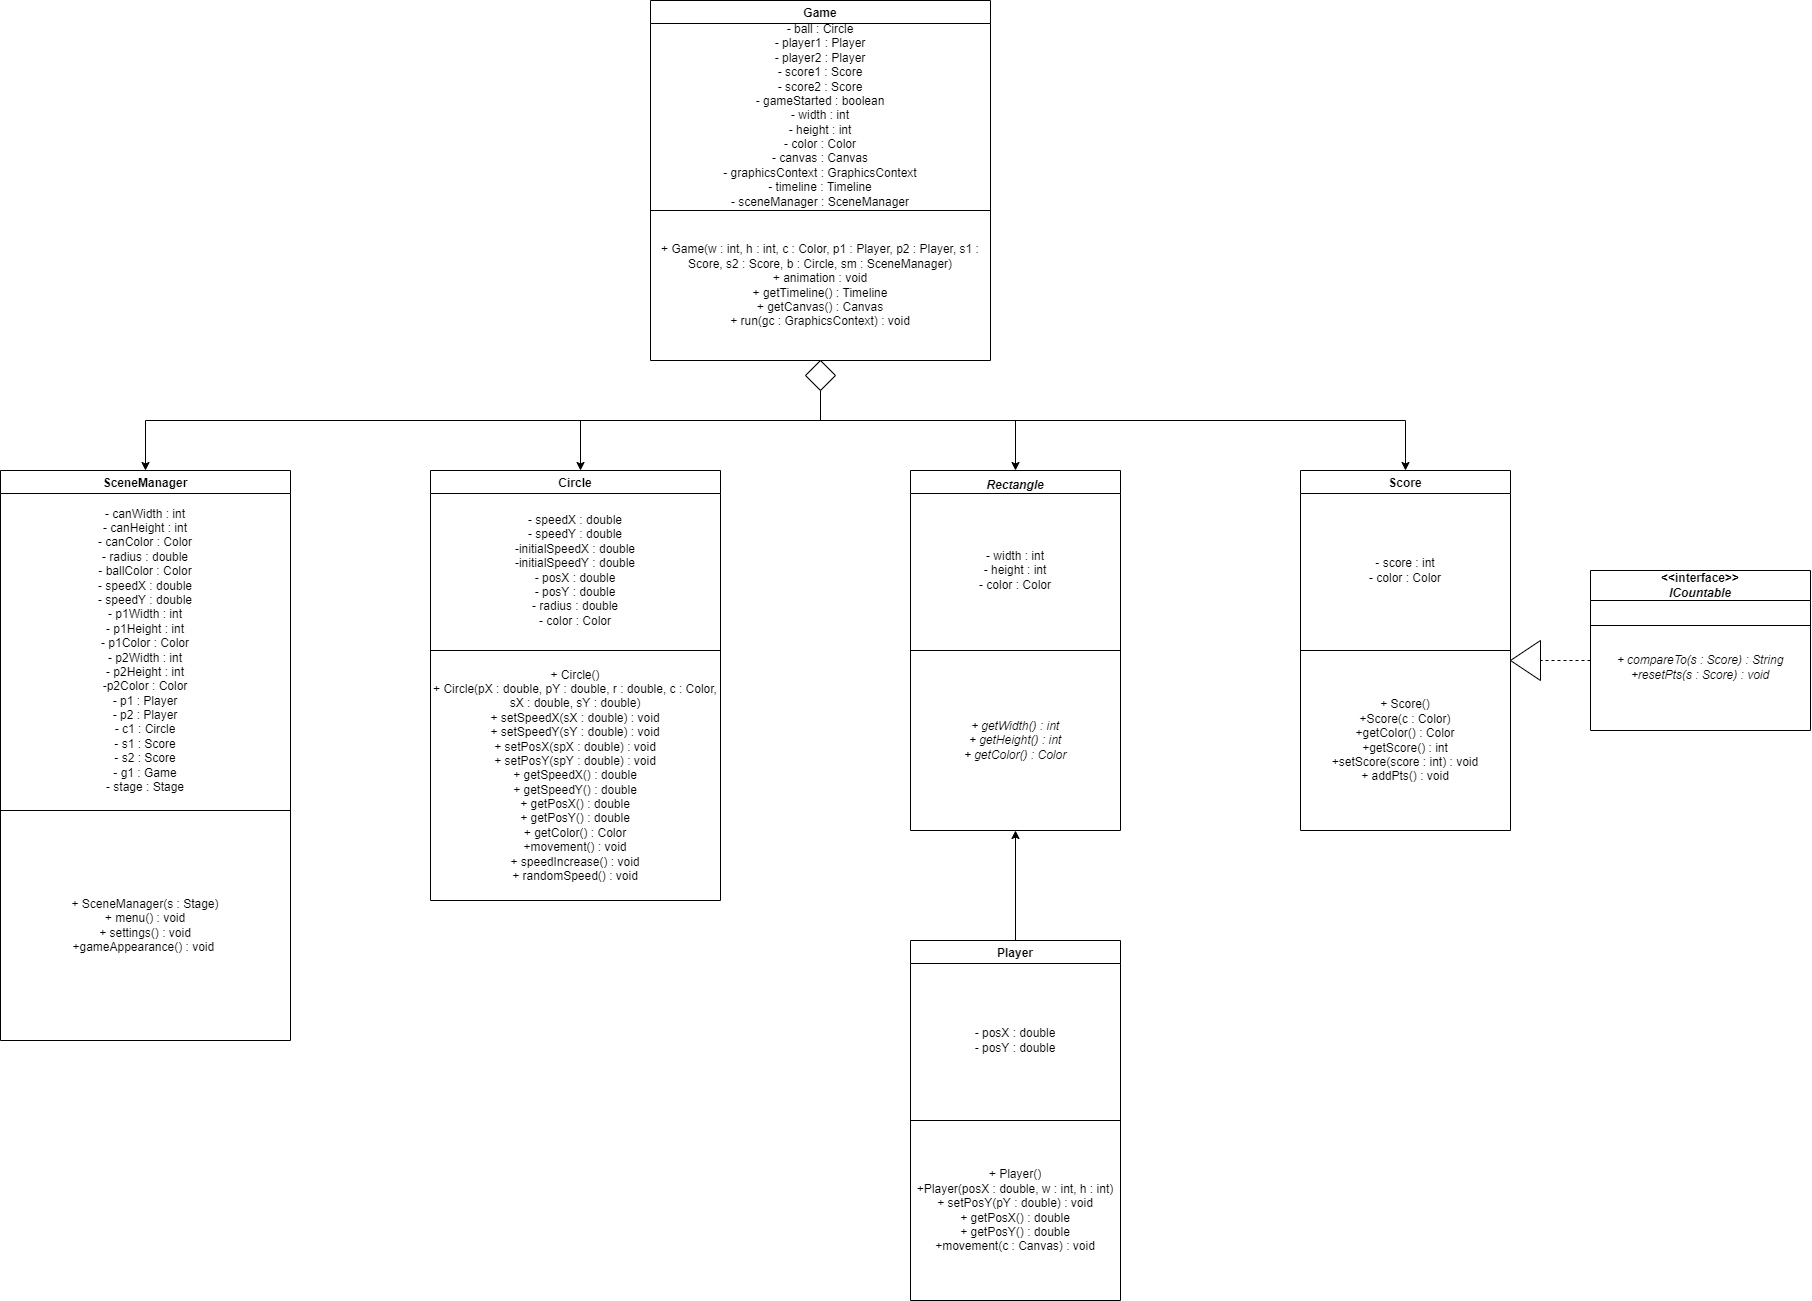
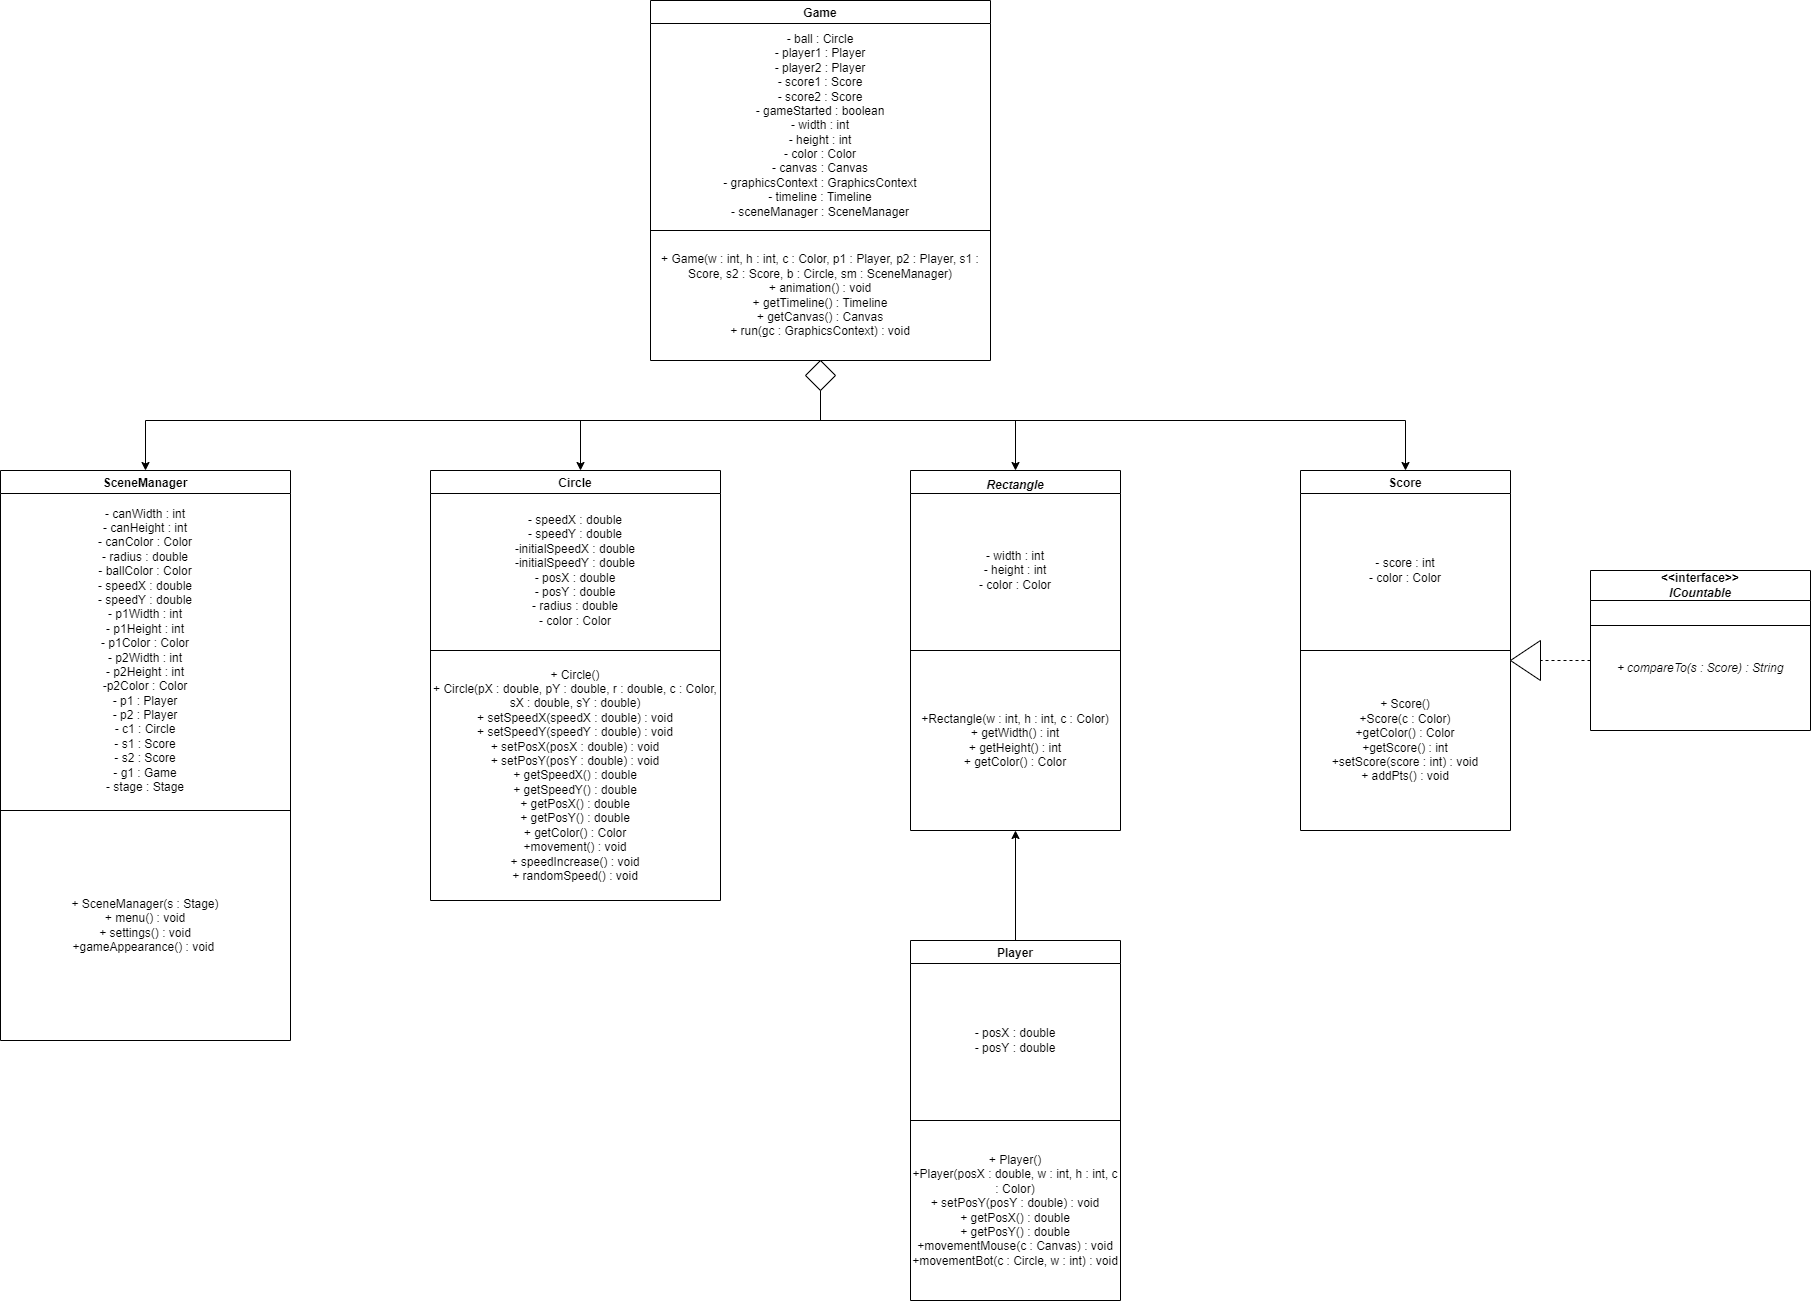
UML Diagram

diff --git a/src/main/java/com/example/final_project_liu_caleb/Rectangle.java b/src/main/java/com/example/final_project_liu_caleb/Rectangle.java
@@ -4,24 +4,24 @@ import javafx.scene.paint.Color;
 
 //abstract class (cannot be instantiated), player inherits from this class
 public abstract class Rectangle {
-    private double width;
-    private double height;
+    private int width;
+    private int height;
     private Color color;
 
     //arg constructor
-    public Rectangle(double w, double h, Color c){
+    public Rectangle(int w, int h, Color c){
         width=w;
         height=h;
         color=c;
     }
 
     //returns the width
-    public double getWidth() {
+    public int getWidth() {
         return width;
     }
 
     //returns the height
-    public double getHeight() {
+    public int getHeight() {
         return height;
     }
 

diff --git a/src/main/java/com/example/final_project_liu_caleb/SceneManager.java b/src/main/java/com/example/final_project_liu_caleb/SceneManager.java
@@ -16,15 +16,15 @@ public class SceneManager {
     private  int canHeight;
     private  Color canColor=Color.GREY;
     private  double radius;
-    private  Color ballColor=Color.BLACK;
+    private  Color ballColor;
     private  double speedX;
     private  double speedY;
     private  int p1Width;
     private  int p1Height;
-    private  Color p1Color=Color.BLACK;
+    private  Color p1Color;
     private  int p2Width;
     private  int p2Height;
-    private  Color p2Color=Color.BLACK;
+    private  Color p2Color;
     private Player p1;
     private Player p2;
     private Circle c1;
